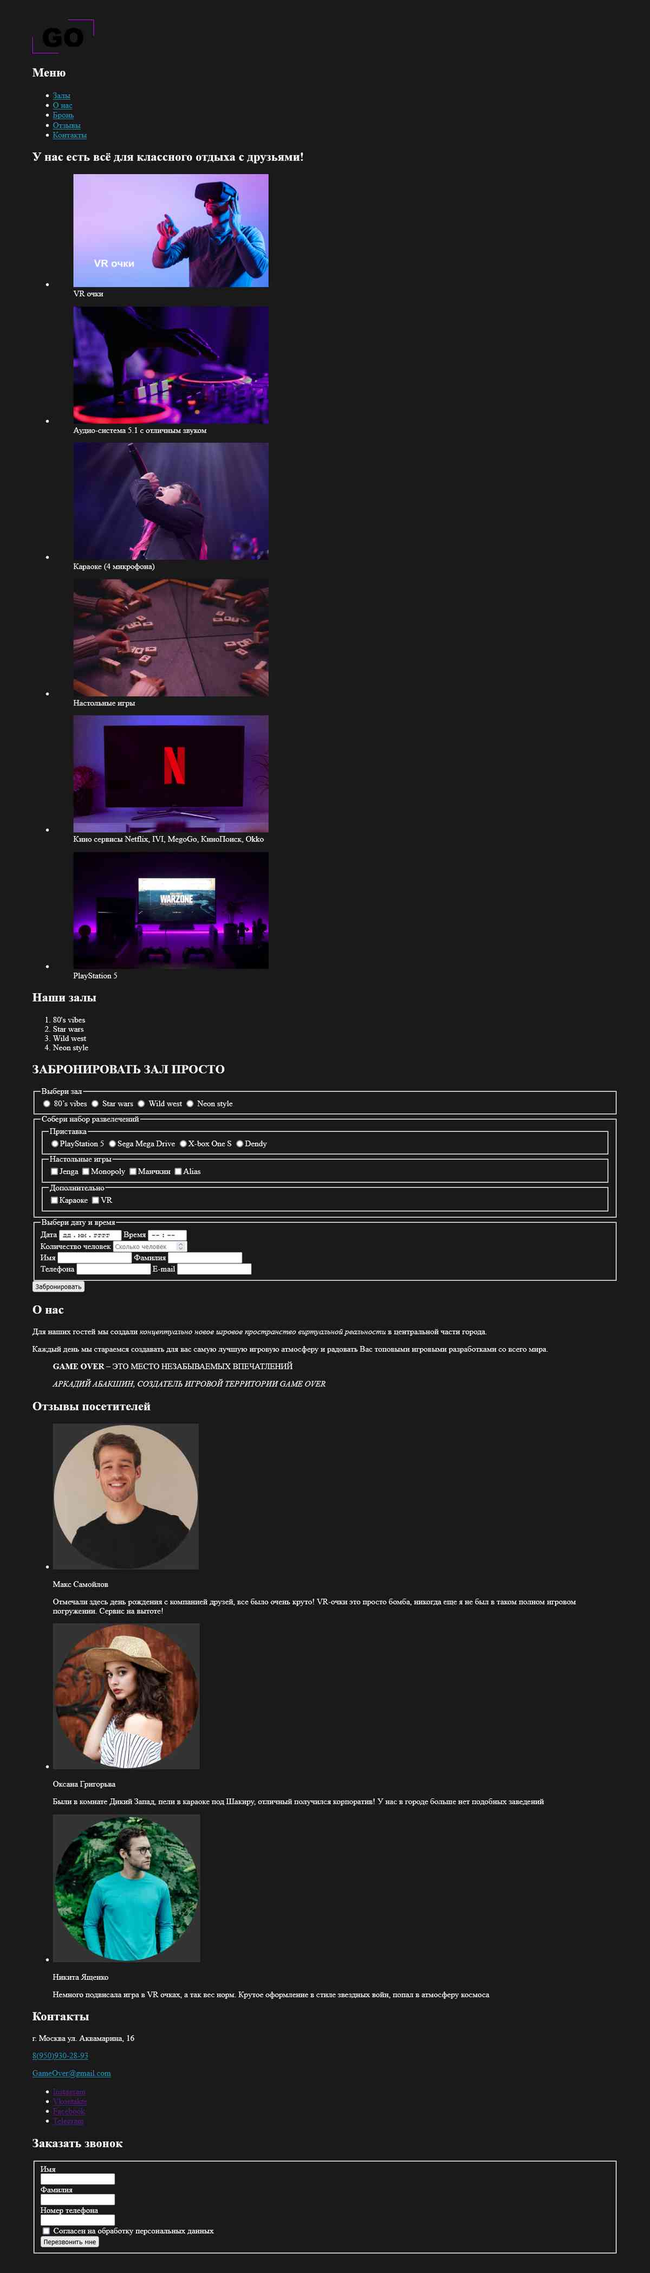
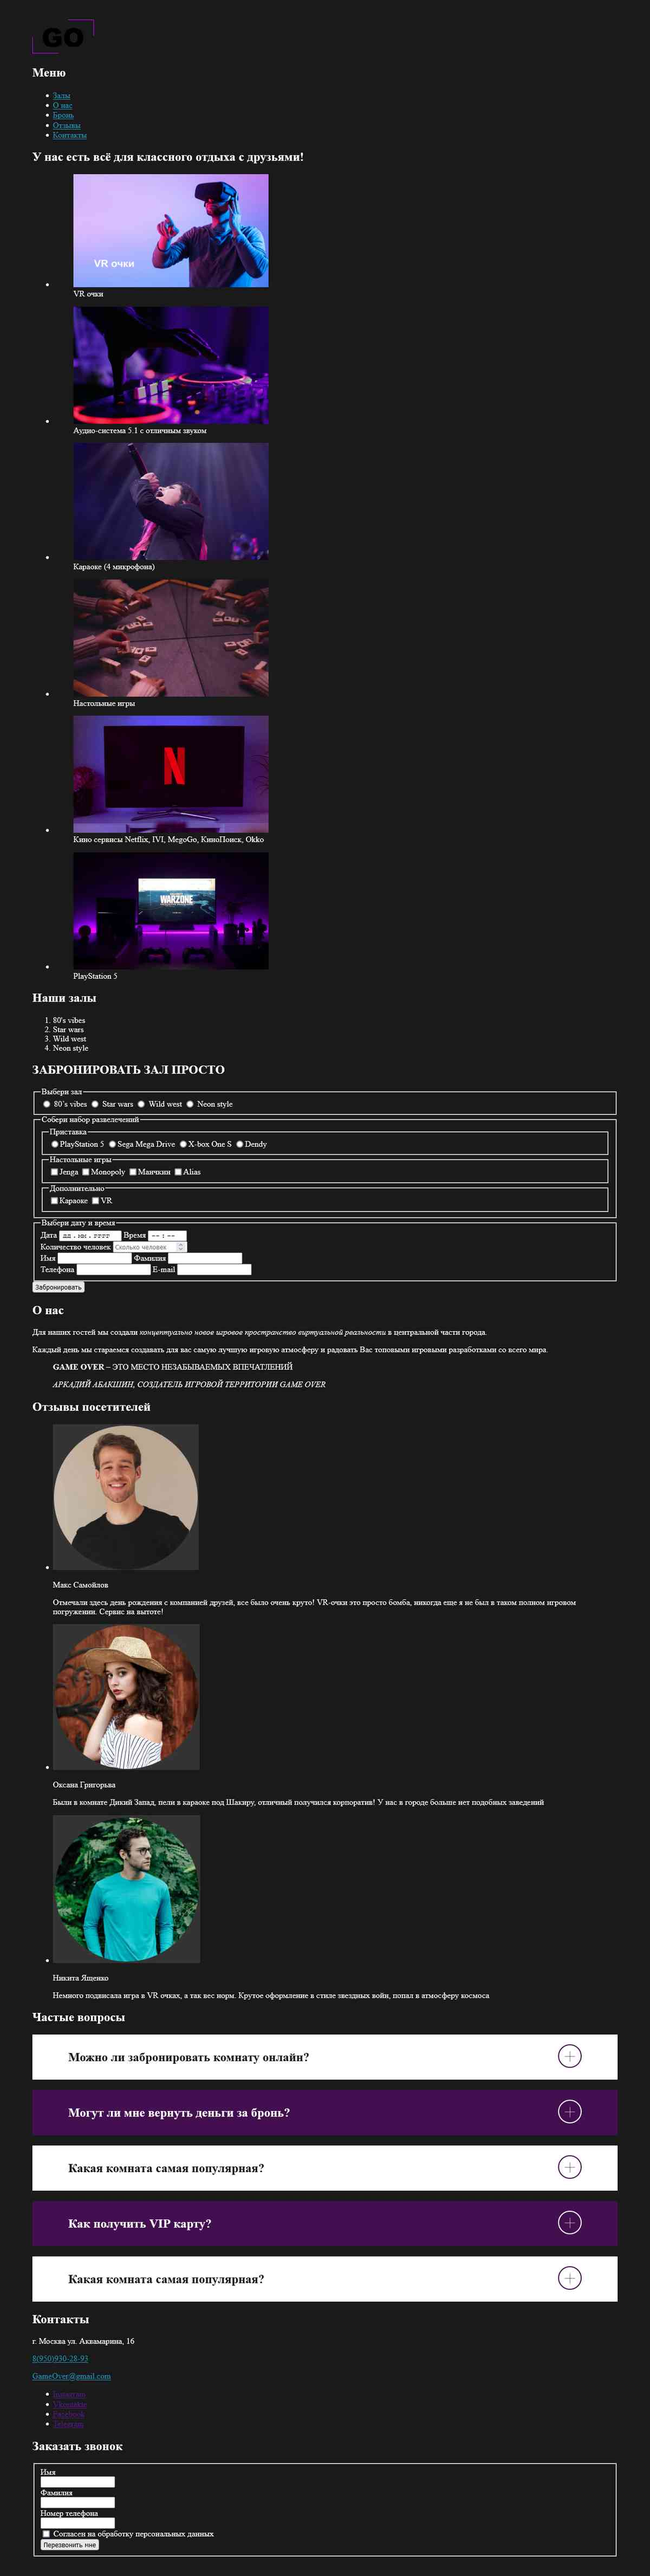
feat methed project GameOver m2l02 block .faq

Changed region(s): [[0.0308, 0.0, 0.9558, 0.9993], [0.8017, 0.687, 0.8325, 0.7182]]

diff --git a/game_over/index.html b/game_over/index.html
@@ -5,20 +5,21 @@
     <meta http-equiv="X-UA-Compatible" content="IE=edge" />
     <meta name="viewport" content="width=device-width, initial-scale=1.0" />
 
+    <!-- фавиконки -->
     <link rel="shortcut icon" type="image/x-icon" href="img/favicon.ico" />
     <link rel="icon" type="image/svg+xml" href="img/icon.svg" />
     <link rel="icon" type="image/png" href="img/logo.png" />
 
-    <link rel="stylesheet" href="style.css">
+    <!-- main index styles главный файл стилей -->
+    <link rel="stylesheet" href="index.css">
 
-    <title>MethEd GO - m2l01</title>
+    <title>MethEd GO - m2l02</title>
   </head>
   <body>
 
     <div class="wrapper">
       <header>
         <img src="img/logo.svg" alt="Лого GO" width="120" height="66" />
-
         <h2>Меню</h2>
         <ul>
           <li><a href="#rooms">Залы</a></li>
@@ -82,15 +83,104 @@
         </ol>
       </section>
 
+
+      <section>
+        <h2 id="booking">ЗАБРОНИРОВАТЬ ЗАЛ ПРОСТО</h2>
+
+        <form action="https://jsonplaceholder.typicode.com/posts" method="POST" id="booking-form">
+          <fieldset>
+            <legend>Выбери зал</legend>
+
+            <label>
+              <input type="radio" name="select-hall" value="option-80s-vibes" required />
+              <span>80&rsquo;s vibes</span>
+            </label>
+            <label>
+              <input type="radio" name="select-hall" value="option-star-wars" required />
+              <span>Star wars</span>
+            </label>
+            <label>
+              <input type="radio" name="select-hall" value="option-wild-west" required />
+              <span>Wild west</span>
+            </label>
+            <label>
+              <input type="radio" name="select-hall" value="option-neon-style" required />
+              <span>Neon style</span>
+            </label>
+          </fieldset>
+
+          <fieldset>
+            <legend>Собери набор развелечений</legend>
+            <fieldset aria-required="true">
+              <legend>Приставка</legend>
+              <label><input type="radio" name="video-game" value="video-play-station-5" required/>PlayStation 5</label>
+              <label><input type="radio" name="video-game" value="video-sega-mega-drive" required/>Sega Mega Drive</label>
+              <label><input type="radio" name="video-game" value="video-x-box-one-s" required/>X-box One S</label>
+              <label><input type="radio" name="video-game" value="video-dendy" required/>Dendy</label>
+            </fieldset>
+            <fieldset aria-required="true">
+              <!-- check this field required with js -->
+              <legend>Настольные игры</legend>
+              <label><input type="checkbox" name="table-game" value="table-Jenga" />Jenga</label>
+              <label><input type="checkbox" name="table-game" value="table-Monopoly" />Monopoly</label>
+              <label><input type="checkbox" name="table-game" value="table-Munchkin" />Манчкин</label>
+              <label><input type="checkbox" name="table-game" value="table-Alias" />Alias</label>
+            </fieldset>
+            <fieldset aria-required="true">
+              <!-- check this field required with js -->
+              <legend>Дополнительно</legend>
+              <label><input type="checkbox" name="optional" value="optional-karaoke" />Караоке</label>
+              <label><input type="checkbox" name="optional" value="optional-vr" />VR</label>
+            </fieldset>
+          </fieldset>
+ 
+          <fieldset>
+            <legend>Выбери дату и время</legend>
+
+            <div>
+              <div>
+                <label for="booking-choose-date">Дата</label>
+                <input type="date" name="choose-date" id="booking-choose-date" placeholder="Дата" required />
+
+                <label for="booking-choose-time">Время</label>
+                <input type="time" name="choose-time" id="booking-choose-time" placeholder="Время" required />
+              </div>
+              <div>
+                <label for="booking-people-amount">Количество человек</label>
+                <input type="number" name="people-amount" id="booking-people-amount" placeholder="Сколько человек" required />
+              </div>
+            </div>
+
+            <div>
+              <label for="booking-user-name">Имя</label>
+              <input type="text" name="user-name" id="booking-user-name" required />
+
+              <label for="booking-user-surname">Фамилия</label>
+              <input type="text" name="user-surname" id="booking-user-surname" required />
+            </div>
+
+            <div>
+              <label for="booking-user-tel">Телефона</label>
+              <input type="tel" name="user-tel" id="booking-user-tel" required />
+              
+              <label for="booking-user-email">E-mail</label>
+              <input type="email" name="user-email" id="booking-user-email" required />
+            </div>
+          </fieldset>
+
+          <div>
+            <button type="submit">Забронировать</button>
+          </div>
+        </form>
+      </section>
+
       <section>
         <h2 id="about">О нас</h2>
         <p>
-          Для наших гостей мы создали <i>концептуально новое игровое пространство виртуальной реальности</i> в центральной
-          части города.
+          Для наших гостей мы создали <i>концептуально новое игровое пространство виртуальной реальности</i> в центральной части города.
         </p>
         <p>
-          Каждый день мы стараемся создавать для вас самую лучшую игровую атмосферу и радовать Вас топовыми игровыми
-          разработками со всего мира.
+          Каждый день мы стараемся создавать для вас самую лучшую игровую атмосферу и радовать Вас топовыми игровыми разработками со всего мира.
         </p>
         <blockquote>
           <p><b>GAME OVER</b> &ndash; это место незабываемых впечатлений</p>
@@ -100,40 +190,41 @@
 
       <section>
         <h2>Отзывы посетителей</h2>
-        
         <ul>
           <li>
-            <figure>
+            <div>
               <img src="img/maks.jpg" alt="Макс" />
-              <figcaption>Макс Самойлов</figcaption>
-            </figure>
-            <p>
-              Отмечали здесь день рождения с компанией друзей, все было очень круто! VR-очки это просто бомба, никогда еще
-              я не был в таком полном игровом погружении. Сервис на вытоте!
-            </p>
+              <p>Макс Самойлов</p>
+            </div>
+            <p>Отмечали здесь день рождения с компанией друзей, все было очень круто! VR-очки это просто бомба, никогда еще я не был в таком полном игровом погружении. Сервис на вытоте!</p>
           </li>
 
           <li>
-            <figure>
+            <div>
               <img src="img/oksana.jpg" alt="Оксана" />
-              <figcaption>Оксана Григорьва</figcaption>
-            </figure>
-            <p>
-              Были в комнате Дикий Запад, пели в караоке под Шакиру, отличный получился корпоратив! У нас в городе больше
-              нет подобных заведений
-            </p>
+              <p>Оксана Григорьва</p>
+            </div>
+            <p>Были в комнате Дикий Запад, пели в караоке под Шакиру, отличный получился корпоратив! У нас в городе больше нет подобных заведений</p>
           </li>
 
           <li>
-            <figure>
+            <div>
               <img src="img/nikita.jpg" alt="Никита" />
-              <figcaption>Никита Ященко</figcaption>
-            </figure>
-            <p>
-              Немного подвисала игра в VR очках, а так вес норм. Крутое оформление в стиле звездных войн, попал в
-              атмосферу космоса
-            </p>
+              <p>Никита Ященко</p>
+            </div>
+            <p>Немного подвисала игра в VR очках, а так вес норм. Крутое оформление в стиле звездных войн, попал в атмосферу космоса</p>
           </li>
+        </ul>
+      </section>
+
+      <section class="faq">
+        <h2 class="faq-subtitle">Частые вопросы</h2>
+        <ul class="faq-list">
+          <li class="faq-item">Можно ли забронировать комнату онлайн?</li>
+          <li class="faq-item">Могут ли мне вернуть деньги за бронь?</li>
+          <li class="faq-item">Какая комната самая популярная?</li>
+          <li class="faq-item">Как получить VIP карту?</li>
+          <li class="faq-item">Какая комната самая популярная?</li>
         </ul>
       </section>
 
@@ -181,81 +272,8 @@
         </form>
       </section>
 
-      <section>
-        <h2 id="booking">Забронировать</h2>
 
-        <form action="https://jsonplaceholder.typicode.com/posts" method="POST" id="booking-form">
-          <fieldset>
-            <label for="booking-select-hall">Выбрать зал</label>
-            <select name="select-hall" id="booking-select-hall">
-              <option value="option-80s-vibes">80&rsquo;s vibes</option>
-              <option value="option-star-wars">Star wars</option>
-              <option value="option-wild-west">Wild west</option>
-              <option value="option-neon-style">Neon style</option>
-            </select>
-          </fieldset>
 
-          <fieldset>
-            <legend>Собери набор развелечений</legend>
-            <fieldset aria-required="true">
-              <legend>Приставка</legend>
-              <label><input type="radio" name="video-game" value="play-station-5" required/>PlayStation 5</label>
-              <label><input type="radio" name="video-game" value="sega-mega-drive" required/>Sega Mega Drive</label>
-              <label><input type="radio" name="video-game" value="x-box-one-s" required/>X-box One S</label>
-              <label><input type="radio" name="video-game" value="dendy" required/>Dendy</label>
-            </fieldset>
-            <fieldset aria-required="true">
-              <!-- check this field requered with js -->
-              <legend>Настольные игры</legend>
-              <label><input type="checkbox" name="table-game" value="Jenga" required/>Jenga</label>
-              <label><input type="checkbox" name="table-game" value="Monopoly" required/>Monopoly</label>
-              <label><input type="checkbox" name="table-game" value="Munchkin" required/>Манчкин</label>
-              <label><input type="checkbox" name="table-game" value="Alias" required/>Alias</label>
-            </fieldset>
-            <fieldset aria-required="true">
-              <!-- check this field requered with js -->
-              <legend>Дополнительно</legend>
-              <label><input type="checkbox" name="optional" value="optional-karaoke" required/>Караоке</label>
-              <label><input type="checkbox" name="optional" value="optional-vr" required/>VR (Очки виртуальной реальности)</label>
-            </fieldset>
-          </fieldset>
-
-          <fieldset>
-            <legend>Выбери дату и время</legend>
-            <div>
-              <label for="booking-choose-date">Дата <span>&ast;</span></label>
-              <input type="date" name="choose-date" id="booking-choose-date" required />
-
-              <label for="booking-choose-time">Время <span>&ast;</span></label>
-              <input type="time" name="choose-time" id="booking-choose-time" required />
-            </div>
-            <div>
-              <label for="booking-people-amount">Количество человек <span>&ast;</span></label>
-              <input type="number" name="people-amount" id="booking-people-amount" required />
-            </div>
-            <div>
-              <label for="booking-user-name">Имя <span>&ast;</span></label>
-              <input type="text" name="user-name" id="booking-user-name" required />
-
-              <label for="booking-user-surname">Фамилия <span>&ast;</span></label>
-              <input type="text" name="user-surname" id="booking-user-surname" required />
-            </div>
-            <div>
-              <label for="booking-user-tel">Номер телефона <span>&ast;</span></label>
-              <input type="tel" name="user-tel" id="booking-user-tel" required />
-
-              <input type="checkbox" name="check-fullage" id="booking-check-fullage" required/>
-              <label for="booking-check-fullage">Я старше 18 лет</label>
-            </div>
-          </fieldset>
-
-          <div>
-            <button type="submit">Забронировать</button>
-            <input type="checkbox" name="privacy-agree" id="booking-privacy-agree" required/>
-            <label for="booking-privacy-agree">Согласен на обработку персональных данных</label>
-          </div>
-        </form>
-      </section>
     </div>
 
   </body>

diff --git a/game_over/faq.css b/game_over/faq.css
@@ -1,0 +1,48 @@
+/* файл стилей блока FAQ */
+
+.faq-list {
+  list-style: none;
+  margin: 0;
+  padding: 0;
+}
+
+
+/* простой список вопросов */
+
+.faq-item {
+  position: relative;
+  background-color: #fff;
+  color: #1c1a1a;
+  font-weight: 700;
+  font-size: 24px;
+  padding: 30px 70px;
+  margin-bottom: 20px;
+}
+
+.faq-item:nth-child(even) {
+  background-color: #440f51;
+  color: #fff;
+}
+
+
+/* усложненный с картинками */
+
+.faq-item::after {
+  position: absolute;
+  top: 19px;
+  right: 70px;
+  display: block;
+  float: right;
+  width: 46px;
+  height: 46px;
+  content: "";
+}
+
+.faq-item:nth-child(odd):after {
+  background-image: url(./img/open-purple.svg);
+}
+
+.faq-item:nth-child(even):after {
+  background-image: url(./img/open.svg);
+}
+

diff --git a/game_over/index.css b/game_over/index.css
@@ -1,0 +1,4 @@
+@import url(./style.css);
+@import url(./faq.css);
+
+/** главный файл стилей проекта */

diff --git a/README.md b/README.md
@@ -8,14 +8,21 @@ Hello! This is GitHub Pages for
 - 💞 I’m looking to collaborate on ...
 <!-- - 📫 How to reach me here ... -->
 
-*Pages are here:*
-- Friendly House project code [github.com/mindfling/mindfling.github.io/tree/main/friendly_house](https://github.com/mindfling/mindfling.github.io/tree/main/friendly_house)
-- Friendly House git page [mindfling.github.io/friendly_house](https://mindfling.github.io/friendly_house)
-
 - my first simple page mindfling.github.io/[404](https://mindfling.github.io/404)
 
 - my [iPhone13 code](https://github.com/mindfling/mindfling.github.io/tree/main/iphone13) 
 - learning project page [iPhone13](https://mindfling.github.io/iphone13)
+
+
+*Friendly House:*
+- Friendly House project code [github.com/mindfling/mindfling.github.io/tree/main/friendly_house](https://github.com/mindfling/mindfling.github.io/tree/main/friendly_house)
+- Friendly House git page [mindfling.github.io/friendly_house](https://mindfling.github.io/friendly_house)
+
+
+*Game Over:*
+- Game Over project code [github.com/mindfling/mindfling.github.io/tree/main/game_over](https://github.com/mindfling/mindfling.github.io/tree/main/game_over)
+- Game Over git page [mindfling.github.io/game_over](https://mindfling.github.io/game_over)
+
 
 
 <!---
